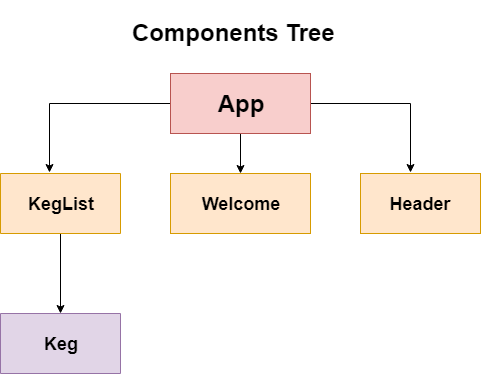
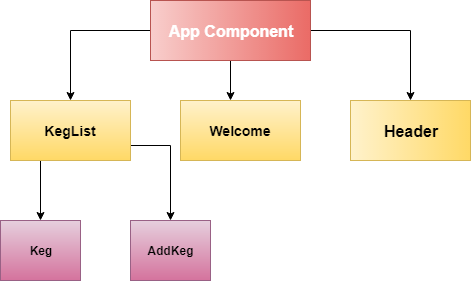
fix adding a keg functinality and documented the components tree and user story, test add functionality and confirmed that it's working

diff --git a/src/components/AddKeg.jsx b/src/components/AddKeg.jsx
@@ -18,6 +18,7 @@ function AddKeg(props) {
     const alcoholContent = parseInt(_alcoholContent.value);
     const pints = parseInt(_pints.value);
     props.onAddingKegToList({name, brand, price, alcoholContent, pints, id});
+
     _name.value = '';
     _brand.value = '';
     _price.value = '';
@@ -27,7 +28,7 @@ function AddKeg(props) {
 
   return(
     <div className="form-container">
-        
+
       <style jsx>{`
                 .form-container {
                     position: absolute;
@@ -102,7 +103,7 @@ function AddKeg(props) {
             `}</style>
       <form className="form-wrap" onSubmit={handleAddingKeg}>
         <span className="close" onClick={props.toggle}>X</span>
-        <h1>Add a New Keg</h1> 
+        <h1>Add a New Keg</h1>
         <div className="form-group">
           <label className="form-control"label>Name</label>
           <input className="form-control" type="text" name="name" ref={(input) => { _name = input; }} required/>
@@ -123,7 +124,7 @@ function AddKeg(props) {
           <label className="form-control">Amount</label>
           <input className="form-control" type="number" name="amount left" ref={(input) => { _pints = input; }} required/>
         </div>
-        <button className="submit-btn" type="submit" onClick={props.toggle}>Add Keg</button>
+        <button className="submit-btn" type="submit">Add Keg</button>
       </form>
     </div>
   );

diff --git a/src/components/KegList.jsx b/src/components/KegList.jsx
@@ -26,6 +26,7 @@ class KegList extends React.Component {
       [newKeg.id]: newKeg
     });
     this.setState({ kegsList: copyKegsList });
+    this.handleToggleForm();
   }//handleAddingKegToList
 
   handlePouringPint(kegId) {
@@ -48,8 +49,8 @@ class KegList extends React.Component {
   render() {
 
     let toggleFormDisplay = null;
-    (this.state.toggleDisplay) ? 
-      toggleFormDisplay = <AddKeg 
+    (this.state.toggleDisplay) ?
+      toggleFormDisplay = <AddKeg
         onAddingKegToList={this.handleAddingKegToList}
         toggle={this.handleToggleForm}/> :
       toggleFormDisplay = null;
@@ -102,7 +103,7 @@ class KegList extends React.Component {
               onPouringPint={this.handlePouringPint}
               onPouringGrowler={this.handlePouringGrowler}
               key={kegId} />;
-            
+
           }.bind(this))}
         </div>
       </div>

diff --git a/src/components/Keg.jsx b/src/components/Keg.jsx
@@ -12,7 +12,7 @@ function Keg(props) {
         <p>Brand: {props.brand}</p>
         <p>Price: ${props.price}</p>
         <p>Alcohol Content: {props.alcoholContent}%</p>
-        <p>Pints Left: {props.pints}</p>
+        <p>Amount Left: {props.pints}</p>
         <div className="btns-wrapper">
           <button className="btn btn-blue" onClick={() => {props.onPouringPint(props.id);}}>Pour a Pint</button>
           <button className="btn btn-green" onClick={() => {props.onPouringGrowler(props.id);}}>Pour a Growler</button>
@@ -27,7 +27,7 @@ function Keg(props) {
           background-size: 100% 300px;
           background-repeat: no-repeat;
           flex-basis: 300px;
-          width: 300%;
+          width: 300px;
           height: 300px;
           border: 1px solid #bbb;
           border-radius: 5px;

diff --git a/README.md b/README.md
@@ -9,7 +9,16 @@ This website allows user to view a list of kegs
 #### User can view a list of kegs and check name, brand, price, alcohol content, amount left
 
 * Input: User hover with their cursor
-* Output: Display name, brand, price, alcohol content, amount left
+* Output: Display name, brand, price, alcohol content, amount left.
+
+* Input: User clicks Pour a pint button
+* Output: A pint will be taken from Amount left.
+
+* Input: User clicks Pour a growler button
+* Output: A growler will be taken from Amount left.
+
+* Input: User clicks Add a Keg button
+* Output: A form will appear to user to fill out keg information and a keg will be added to the list.
 
 ## Setup
 ### Instructions:
